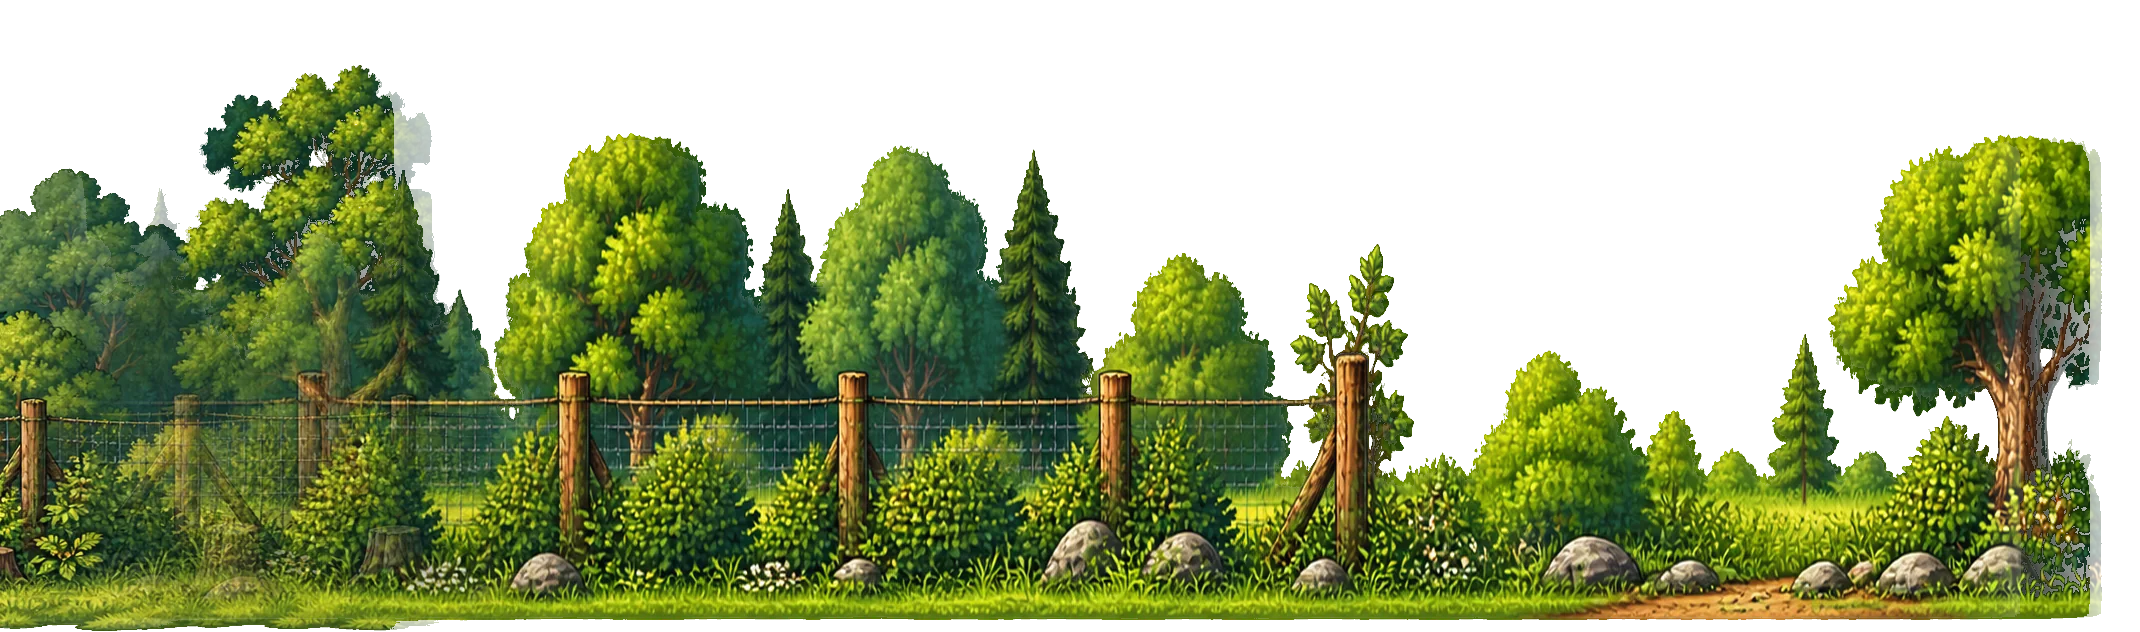
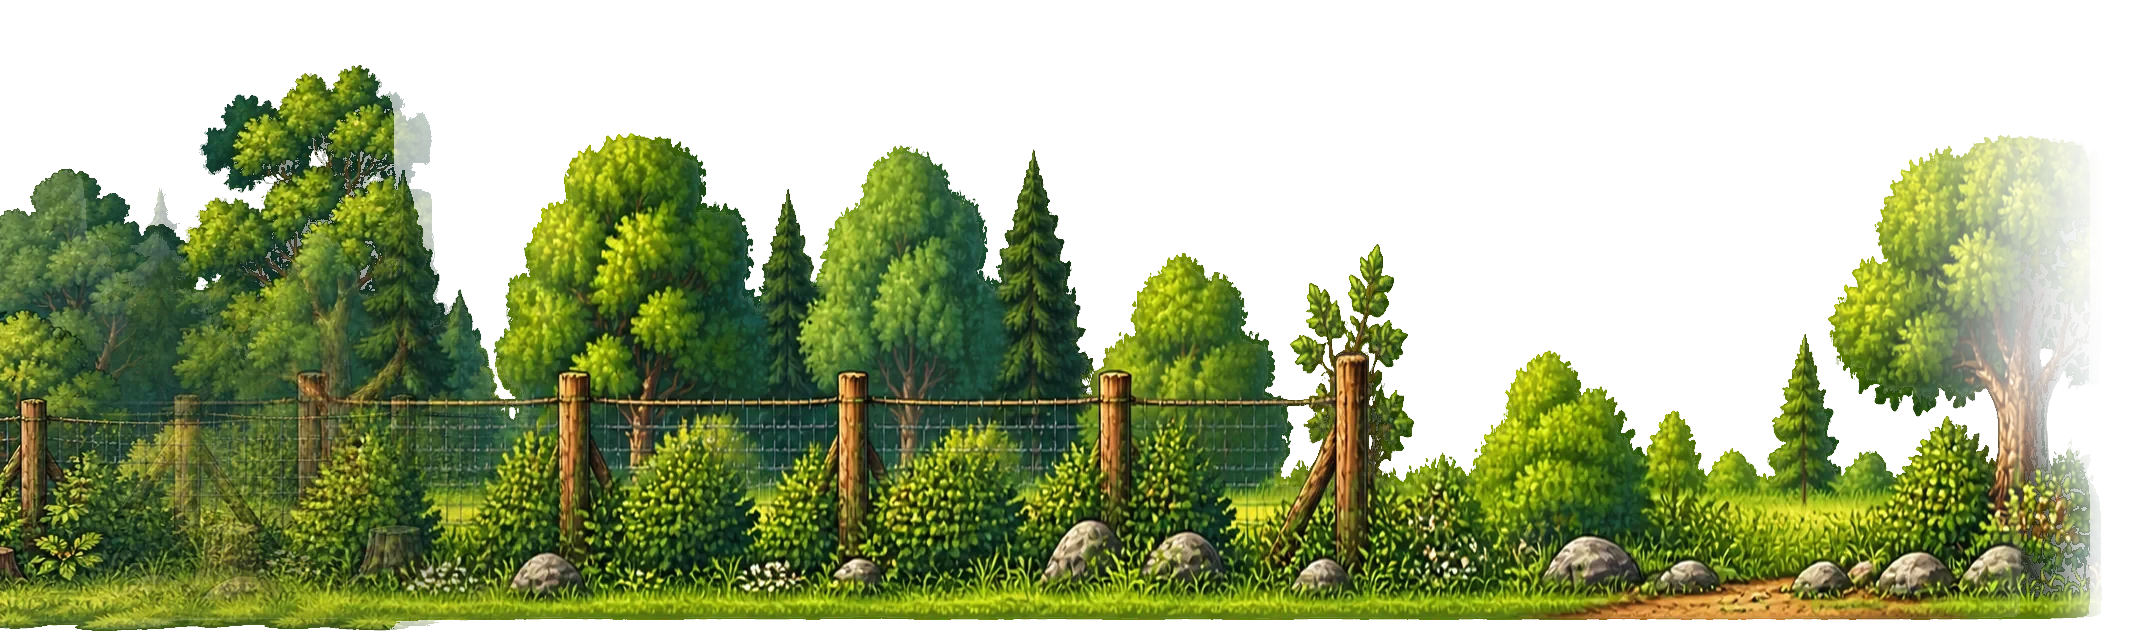
Zamaskuj začátek a konec obory stromy a keři
Obrázky obory se ven ztrácí do průhledna a přes oba kraje stojí
borovice, smrk, bříza, dub a keře. Skupinky stromů na koncích rybníka
a obory kreslí společná drawEndGroup.

Claude-Session: https://claude.ai/code/session_01HvbWHoqHLJQwfRFFMYyRvu

Changed region(s): [[0.8636, 0.2104, 0.9869, 0.9921]]

diff --git a/src/game/runner.ts b/src/game/runner.ts
@@ -185,6 +185,29 @@ const FOREST: readonly Kind[] = ["forest-oak", "forest-birch", "forest-pine", "f
 type Scene = "les" | "haj" | "stromy" | "pole";
 /** Stromy v zámeckém parku a kolem rybníka. */
 const PARK_TREES: readonly Kind[] = ["forest-oak", "forest-linden", "forest-maple", "forest-birch", "forest-willow", "forest-spruce"];
+/**
+ * Skupinka přes konec kulisy: [obrázek, výška v u, posun od kraje ven (+) či dovnitř (-) v u, zrcadlit,
+ * zadní řada (ztmavená)]. Kreslí se v tomhle pořadí, zadní řada první.
+ */
+type EndPiece = readonly [string, number, number, boolean, boolean];
+const POND_END: readonly EndPiece[] = [
+  ["forest-oak", 1.55, 0.35, false, true],
+  ["forest-birch", 1.6, -0.55, true, true],
+  ["forest-willow", 1.75, -0.05, false, false],
+  ["forest-linden", 1.5, 0.95, true, false],
+  ["bush", 0.5, -0.75, false, false],
+  ["bush", 0.48, 0.45, true, false],
+];
+// Obora je les za plotem: jehličnany a dub; dovnitř jen kousek, ať strom nezakryje ceduli obory.
+// Před oborou je jen kousek trávy ke skleníku (asi 1 u), skupinka proto nesahá ven dál než to.
+const OBORA_END: readonly EndPiece[] = [
+  ["forest-pine", 1.7, 0.4, false, true],
+  ["forest-birch", 1.55, -0.2, true, true],
+  ["forest-spruce", 1.85, 0.08, false, false],
+  ["forest-oak", 1.25, 0.45, true, false],
+  ["bush", 0.5, 0.05, false, false],
+  ["bush", 0.4, 0.75, true, false],
+];
 const PROPS = new Set<Kind>([...FOREST, "bush", "lamp", "tree", "bench", "pigeon", "bin"]);
 const DECOR = new Set<Kind>([...FOREST, "bush", "lamp", "tree", "bench", "pigeon", "bin", "column", "church", "school", "info", ...SIGNS]);
 
@@ -361,7 +384,7 @@ function hash(n: number): number {
   return x - Math.floor(x);
 }
 
-const ART_REV = "39";
+const ART_REV = "40";
 
 async function loadImage(src: string): Promise<HTMLImageElement | null> {
   try {
@@ -1763,42 +1786,38 @@ export class Runner {
    * stojí skupinka stromů a keřů, ať rybník plynule přechází do krajiny a nikde nevisí ve vzduchu.
    */
   private drawPondEndTrees(ctx: CanvasRenderingContext2D) {
-    const feet = this.groundY + 2;
-    // [druh, výška v u, posun od kraje rybníka ven (+) či dovnitř (-) v u, zrcadlit, zadní řada]
-    const group: [string, number, number, boolean, boolean][] = [
-      ["forest-oak", 1.55, 0.35, false, true],
-      ["forest-birch", 1.6, -0.55, true, true],
-      ["forest-willow", 1.75, -0.05, false, false],
-      ["forest-linden", 1.5, 0.95, true, false],
-      ["bush", 0.5, -0.75, false, false],
-      ["bush", 0.48, 0.45, true, false],
-    ];
     for (const ent of this.ents) {
       if (!ent.alive || ent.kind !== "pond") continue;
       const half = this.pondHalf();
       const center = ent.x - this.camera;
       if (center + half < -this.cullMargin || center - half > this.viewW + this.cullMargin) continue;
-      for (const side of [-1, 1] as const) {
-        const edge = center + side * half;
-        for (const [kind, size, out, mirror, far] of group) {
-          const img = this.art[kind];
-          if (!(img instanceof HTMLImageElement) || !img.height) continue;
-          const h = size * this.u;
-          const w = h * (img.width / img.height);
-          const x = edge + side * out * this.u;
-          const baked = far ? this.bakedFar(img, h * this.scale) : this.baked(img, h * this.scale);
-          // Na pravém konci zrcadlově, ať skupinka není dvakrát stejná.
-          const flip = (side === 1) !== mirror;
-          if (flip) {
-            ctx.save();
-            ctx.translate(this.snap(x), 0);
-            ctx.scale(-1, 1);
-            ctx.drawImage(baked, -w / 2, this.snap(feet - h), w, h);
-            ctx.restore();
-          } else {
-            ctx.drawImage(baked, this.snap(x - w / 2), this.snap(feet - h), w, h);
-          }
-        }
+      this.drawEndGroup(ctx, center - half, -1, POND_END);
+      this.drawEndGroup(ctx, center + half, 1, POND_END);
+    }
+  }
+
+  /**
+   * Skupinka stromů a keřů přes konec kulisy (rybník, obora). `side` je směr ven z kulisy: -1 levý konec,
+   * 1 pravý; na pravém konci je skupinka zrcadlově, ať oba konce nejsou stejné.
+   */
+  private drawEndGroup(ctx: CanvasRenderingContext2D, edge: number, side: -1 | 1, group: readonly EndPiece[]) {
+    const feet = this.groundY + 2;
+    for (const [kind, size, out, mirror, far] of group) {
+      const img = this.art[kind];
+      if (!(img instanceof HTMLImageElement) || !img.height) continue;
+      const h = size * this.u;
+      const w = h * (img.width / img.height);
+      const x = edge + side * out * this.u;
+      if (x + w < -40 || x - w > this.viewW + 40) continue;
+      const baked = far ? this.bakedFar(img, h * this.scale) : this.baked(img, h * this.scale);
+      if ((side === 1) !== mirror) {
+        ctx.save();
+        ctx.translate(this.snap(x), 0);
+        ctx.scale(-1, 1);
+        ctx.drawImage(baked, -w / 2, this.snap(feet - h), w, h);
+        ctx.restore();
+      } else {
+        ctx.drawImage(baked, this.snap(x - w / 2), this.snap(feet - h), w, h);
       }
     }
   }
@@ -1834,20 +1853,17 @@ export class Runner {
     }
   }
 
+  /** Začátek a konec obory: obrázek se ven ztrácí do průhledna a přes kraj stojí jehličnany a keře. */
   private drawOboraEndTrees(ctx: CanvasRenderingContext2D) {
-    const img = this.art.tree;
-    if (!(img instanceof HTMLImageElement) || !img.height) return;
-    const h = SPEC.tree.h * this.u;
-    const tw = h * (img.width / img.height);
-    const baked = this.baked(img, h * this.scale);
-    const feet = this.groundY;
     for (const span of this.oboraSpans) {
-      const edge = span.to - this.camera;
-      if (edge < -this.cullMargin || edge > this.viewW + this.cullMargin) continue;
-      const x = edge - tw * 0.28;
-      ctx.drawImage(baked, this.snap(x - tw / 2), this.snap(feet - h), tw, h);
+      const from = span.from - this.camera;
+      const to = span.to - this.camera;
+      if (to < -this.cullMargin || from > this.viewW + this.cullMargin) continue;
+      this.drawEndGroup(ctx, from, -1, OBORA_END);
+      this.drawEndGroup(ctx, to, 1, OBORA_END);
     }
   }
+
 
   private pondGapEnd(x: number): number | null {
     const cycle = CYCLE_LEN;
